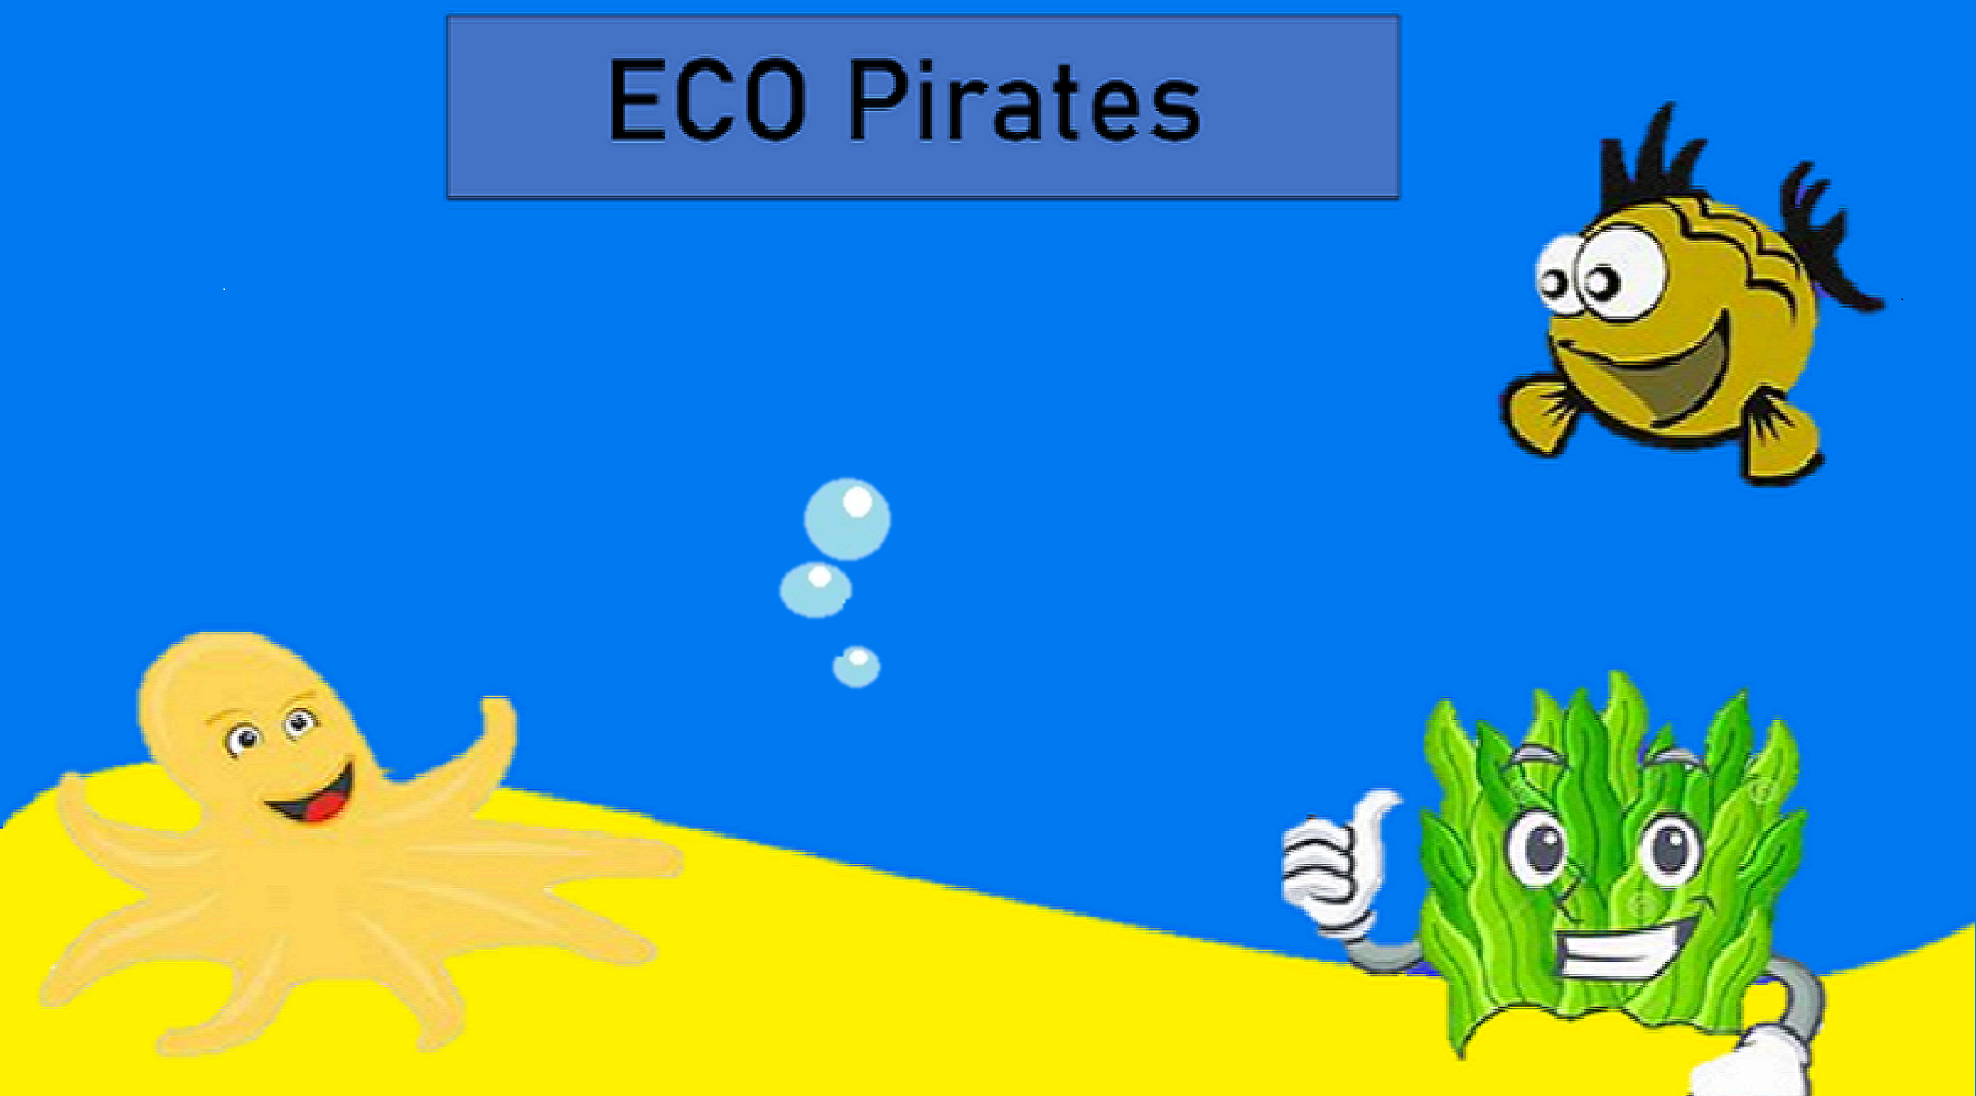
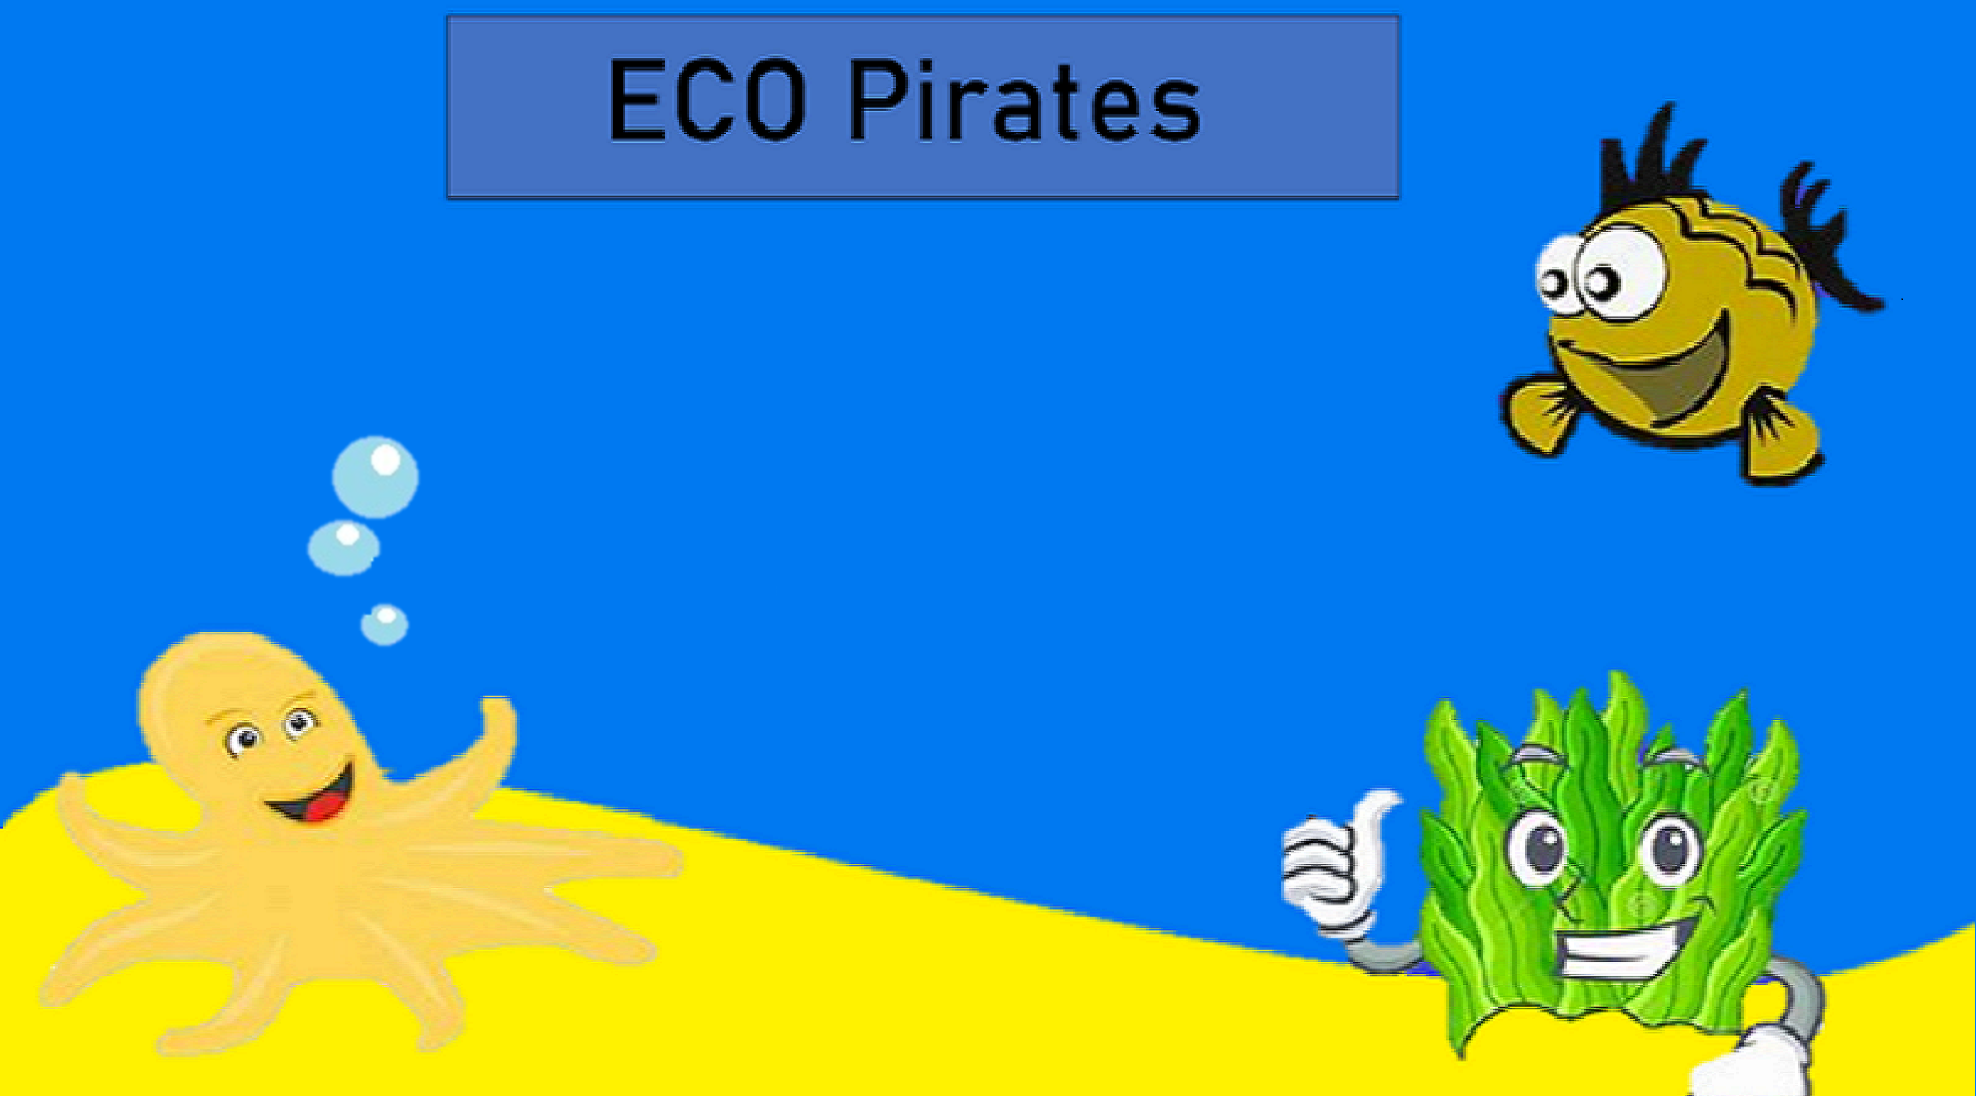
Add bubbles in the Main Menu and make a completely different vision for the Rules menu

Changed region(s): [[0.3704, 0.4343, 0.4631, 0.6204], [0.1544, 0.4033, 0.2161, 0.5894]]

diff --git a/Chemistry-and-biology-project/Chemistry-and-biology-project/Chemistry-and-biology-project.cpp b/Chemistry-and-biology-project/Chemistry-and-biology-project/Chemistry-and-biology-project.cpp
@@ -49,34 +49,40 @@ void rulesFunction()
 
     Vector2 ballPosition = { -100.0f, -100.0f };
     Vector2 mousePoint = { -100.0f, -100.0f };
-    Texture2D exitToGame, exitToMenu;
+    Texture2D exitToGame;
+    Texture2D rulesBackground;
+
     exitToGame = LoadTexture("../images/rulesToGame.png");
-    exitToMenu = LoadTexture("../images/rulesToMenuButton.png");
+    rulesBackground = LoadTexture("../images/rulesbg.png");
+
     Rectangle exitRulesButton = { 1635, 925, exitToGame.width, exitToGame.height };
+
+
     while (!WindowShouldClose())
     {
         ballPosition = GetMousePosition();
         mousePoint = GetMousePosition();
 
         BeginDrawing();
+        DrawTexture(rulesBackground,0,0, WHITE);
         DrawText("press ESC to go back", 75, 915, 20, RED);
         DrawTexture(exitToGame, 1635, 925, WHITE);
-        DrawRectangleLines(75, 85, 1580, 820, ORANGE);
+        DrawRectangleLines(180, 160, 1500, 750, ORANGE);
         DrawCircleV(ballPosition, 10, BLACK);
         HideCursor();
         DrawFPS(75, 50);
-        DrawText("There were times when people decided to get better,", 100, 110, 50, ORANGE);
-        DrawText("to change themselves to a better reality and a ", 100, 160, 50, ORANGE);
-        DrawText("different lifestyle, so that's why they all gathered  ", 100, 210, 50, ORANGE);
-        DrawText("all the trash on the planet together and put them on", 100, 260, 50, ORANGE);
-        DrawText(" a big recycling ship. But the big ship crashed on an ", 100, 310, 50, ORANGE);
-        DrawText("ice berg and all the garbage went floating in the ocean.", 100, 360, 50, ORANGE);
-        DrawText("Your task is to gather all the left overs of the trash ", 100, 410, 50, ORANGE);
-        DrawText("by completing chemistry and biology problems and ", 100, 460, 50, ORANGE);
-        DrawText("questions. Good luck saving the whole planet ECO pirate.", 100, 510, 50, ORANGE);
-        DrawText("*hint*", 100, 600, 50, RED);
-        DrawText("You should be very careful when choosing the right answer", 100, 700, 50, BLACK);
-        DrawText("because you have 3 lifes only.", 100, 770, 50, BLACK);
+        DrawText("There were times when people decided to get better,", 190, 165, 50, WHITE);
+        DrawText("to change themselves to a better reality and a ", 190, 215, 50, WHITE);
+        DrawText("different lifestyle, so that's why they all gathered  ", 190, 265, 50, WHITE);
+        DrawText("all the trash on the planet together and put them on", 190, 315, 50, WHITE);
+        DrawText("a big recycling ship. But the big ship crashed on an ", 190, 365, 50, WHITE);
+        DrawText("ice berg and all the garbage went floating in the ocean.", 190, 415, 50, WHITE);
+        DrawText("Your task is to gather all the left overs of the trash ", 190, 465, 50, WHITE);
+        DrawText("by completing chemistry and biology problems and ", 190, 515, 50, WHITE);
+        DrawText("questions. Good luck saving the whole planet ECO pirate.", 190, 565, 50, WHITE);
+        DrawText("*hint*", 190, 665, 50, RED);
+        DrawText("You should be very careful when choosing the right", 190, 765, 50, WHITE);
+        DrawText("answer because you have 3 lifes only.", 190, 825, 50, WHITE);
         ClearBackground(BLUE);
         EndDrawing();
         if (IsMouseButtonPressed(MOUSE_BUTTON_LEFT) && CheckCollisionPointRec(mousePoint, exitRulesButton))
